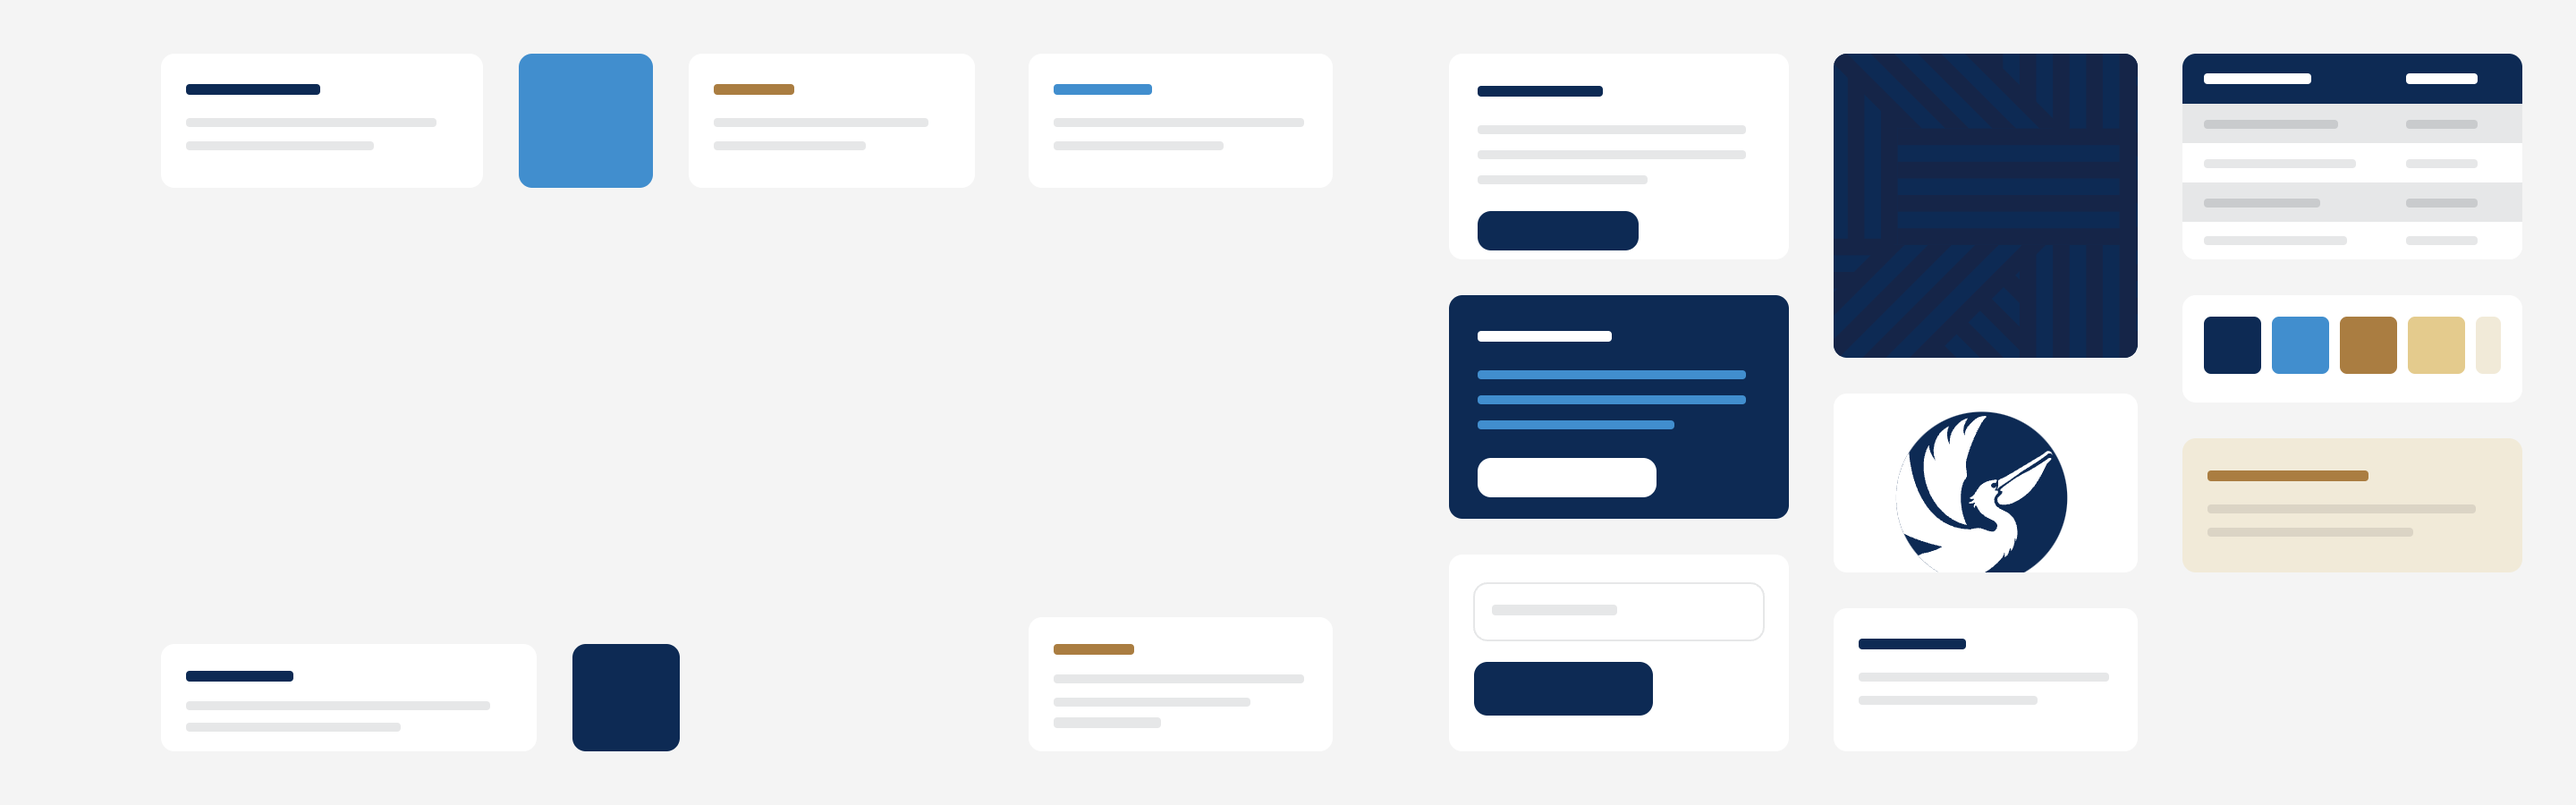
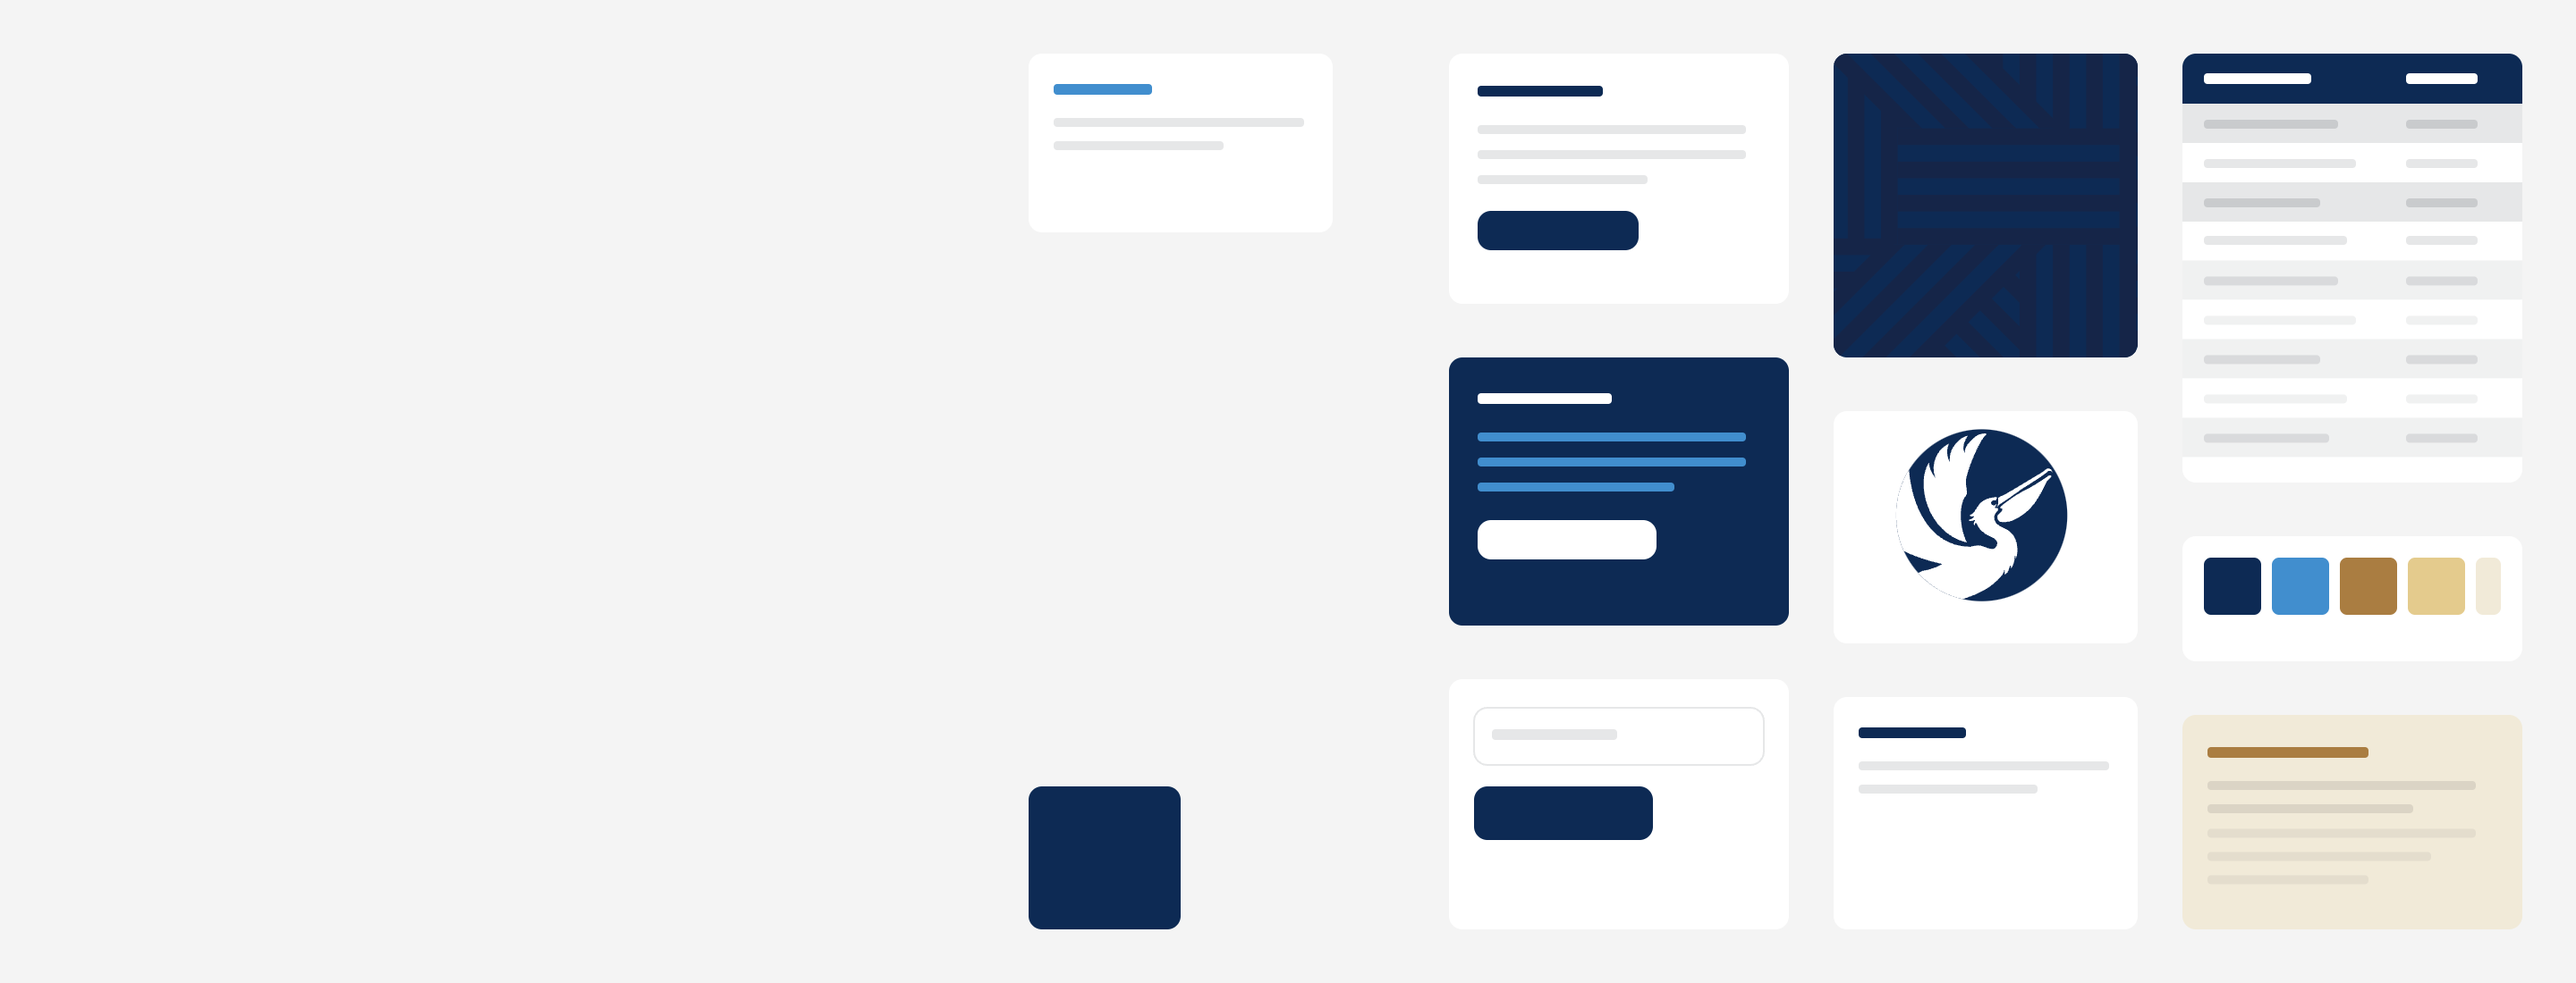
hero mais alto, miolo livre para o texto e chamada enxuta

diff --git a/index.html b/index.html
@@ -22,13 +22,13 @@
   .faixa--apoio { background: var(--api-fundo-secao); }
   .hero { background: var(--api-fundo-secao); padding: 0 24px; }
   .hero .dentro { position: relative; }
-  .hero .arte { width: 100%; aspect-ratio: 2880 / 900; display: block;
+  .hero .arte { width: 100%; aspect-ratio: 2880 / 1100; display: block;
                 background: url("assets/hero/api_capital_hero_design_system.png")
                             no-repeat center center; background-size: 100% 100%; }
-  .hero .texto { position: absolute; left: 6.2%; top: 50%; transform: translateY(-50%);
-                 width: 33%; }
-  .hero h1 { margin-bottom: 2.2%; font-size: clamp(22px, 3.1vw, 48px); }
-  .hero p { margin: 0; font-size: clamp(12px, 1.15vw, 18px); max-width: none; }
+  .hero .texto { position: absolute; left: 0; top: 50%; transform: translateY(-50%);
+                 width: 39%; }
+  .hero h1 { margin-bottom: 2.4%; font-size: clamp(20px, 2.5vw, 36px); line-height: 1.1; }
+  .hero p { margin: 0; font-size: clamp(12px, 1.2vw, 18px); max-width: none; }
   @media (max-width: 1100px) {
     .hero { padding: 80px 24px; }
     .hero .arte { display: none; }
@@ -74,9 +74,9 @@
   <div class="dentro">
     <div class="arte" aria-hidden="true"></div>
     <div class="texto">
-      <h1 class="api-display">Sistema de Design<br>API Capital</h1>
-      <p class="api-corpo-grande">Tudo que é preciso para produzir uma peça da API Capital dentro
-        do padrão: a especificação, os vetos, os tokens e os ativos de marca.</p>
+      <h1 class="api-display">Sistema de Design API Capital</h1>
+      <p class="api-corpo-grande">Tudo o que é preciso para produzir peças no padrão visual da
+        API Capital.</p>
     </div>
   </div>
 </section>
